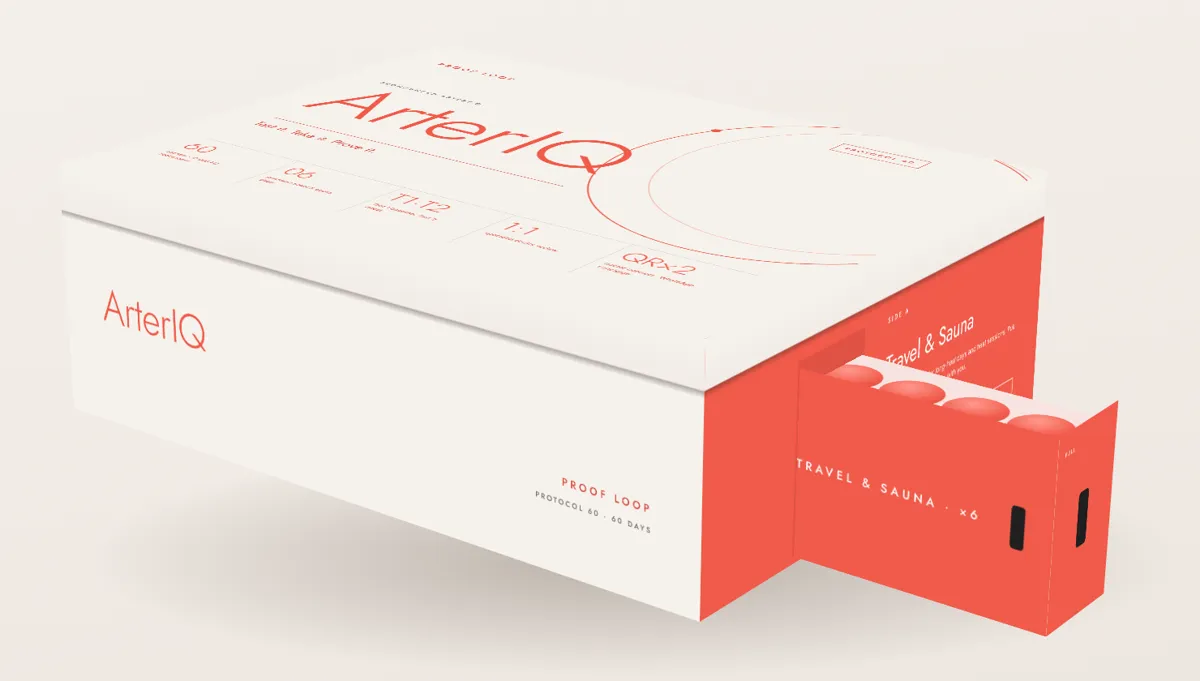
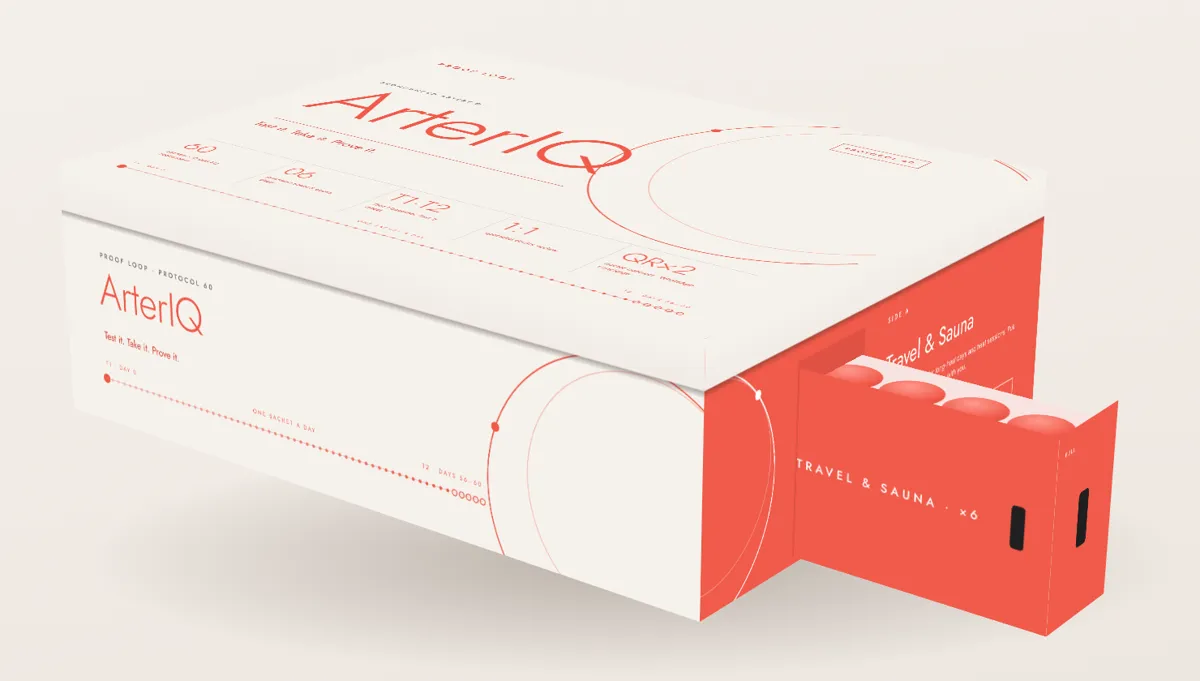
Outer box designs; remove 'Same box outside' tile
Claude-Session: https://claude.ai/code/session_01PkeobWmfrChtD7SqVdFZLv

diff --git a/index.html b/index.html
@@ -697,9 +697,9 @@ a{color:#4A5163}a:hover{color:#E63E3E}
 .p60main{position:absolute;inset:0;width:100%;height:100%;object-fit:cover;object-position:50% 45%}.p60v .flsach{inset:auto;right:5%;bottom:5%;width:44%;height:auto;object-fit:contain;border-radius:6px;box-shadow:0 24px 40px -18px rgba(60,30,20,.45);transform:translateY(10px) rotate(-4deg);z-index:2}.p60v .flsach.on{transform:rotate(-4deg)}
 .p60badge{position:absolute;left:34px;top:34px;z-index:2;padding:9px 14px;border-radius:999px;background:rgba(255,255,255,.9);font-size:13px;color:#4A5163}
 .p60badge b{font-weight:500}
-.p60t{position:relative;display:grid;grid-template-columns:1fr 1fr;gap:12px}
+.p60t{position:relative;display:grid;grid-template-columns:1fr;gap:12px}
 .p60t figure{margin:0;border-radius:18px;overflow:hidden;background:rgba(255,255,255,.92);box-shadow:0 18px 40px -24px rgba(90,40,30,.5)}
-.p60t img{display:block;width:100%;aspect-ratio:16/10;object-fit:cover}
+.p60t img{display:block;width:100%;aspect-ratio:16/9;object-fit:cover;object-position:50% 55%}
 .p60t figcaption{padding:8px 12px 10px;font-size:12px;color:#5A6080}
 .ostep{display:flex;flex-direction:column;gap:2px}
 .osn{display:inline-grid;place-items:center;width:22px;height:22px;margin-right:10px;border-radius:50%;background:#FC5050;color:#fff;font-size:11px;letter-spacing:0;vertical-align:1px}
@@ -940,7 +940,7 @@ a{color:#4A5163}a:hover{color:#E63E3E}
 <div class="offrow">
 <div class="p60 rise">
 <div class="p60v"><div class="p60img"><img class="p60main" src="images/p60-open.webp" alt="Proof Loop Protocol 60 Box, open: coral lid tracker, sachets, kits and shots" loading="lazy" decoding="async"><img class="flimg flsach" data-fli="chocolate" src="images/sachet-chocolate.webp" alt="Chocolate day-numbered sachet" loading="lazy" decoding="async"><img class="flimg flsach on" data-fli="orange" src="images/sachet-orange.webp" alt="Orange day-numbered sachet" loading="lazy" decoding="async"><img class="flimg flsach" data-fli="unflavoured" src="images/sachet-unflavoured.webp" alt="Unflavoured day-numbered sachet" loading="lazy" decoding="async"></div><span class="p60badge">Your sachets · <b data-flname>Orange</b></span>
-<div class="p60t"><figure><img src="images/p60-closed.webp" alt="Closed Protocol 60 Box" loading="lazy" decoding="async"><figcaption>Same box outside</figcaption></figure><figure><img src="images/p60-drawer.webp" alt="Travel and Sauna drawer pulled out" loading="lazy" decoding="async"><figcaption>Travel &amp; Sauna drawer</figcaption></figure></div></div>
+<div class="p60t"><figure><img src="images/p60-drawer.webp" alt="Travel and Sauna drawer pulled out" loading="lazy" decoding="async"><figcaption>Travel &amp; Sauna drawer</figcaption></figure></div></div>
 <div class="obody">
 <p style="margin:0;font-size:14px;color:#6A7080"><span style="display:inline-flex;gap:2px" role="img" aria-label="5 out of 5 stars"><svg width="13" height="13" viewBox="0 0 24 24" fill="#FF9C80" aria-hidden="true"><path d="M12 2.5l2.9 6 6.6.8-4.9 4.6 1.3 6.6L12 17.3l-5.9 3.2 1.3-6.6L2.5 9.3l6.6-.8L12 2.5Z"></path></svg><svg width="13" height="13" viewBox="0 0 24 24" fill="#FF9C80" aria-hidden="true"><path d="M12 2.5l2.9 6 6.6.8-4.9 4.6 1.3 6.6L12 17.3l-5.9 3.2 1.3-6.6L2.5 9.3l6.6-.8L12 2.5Z"></path></svg><svg width="13" height="13" viewBox="0 0 24 24" fill="#FF9C80" aria-hidden="true"><path d="M12 2.5l2.9 6 6.6.8-4.9 4.6 1.3 6.6L12 17.3l-5.9 3.2 1.3-6.6L2.5 9.3l6.6-.8L12 2.5Z"></path></svg><svg width="13" height="13" viewBox="0 0 24 24" fill="#FF9C80" aria-hidden="true"><path d="M12 2.5l2.9 6 6.6.8-4.9 4.6 1.3 6.6L12 17.3l-5.9 3.2 1.3-6.6L2.5 9.3l6.6-.8L12 2.5Z"></path></svg><svg width="13" height="13" viewBox="0 0 24 24" fill="#FF9C80" aria-hidden="true"><path d="M12 2.5l2.9 6 6.6.8-4.9 4.6 1.3 6.6L12 17.3l-5.9 3.2 1.3-6.6L2.5 9.3l6.6-.8L12 2.5Z"></path></svg></span> <span class="cnt" style="--to:30"></span>+ doctors across India recommend Arter.IQ</p>
 <div><p class="mono" style="margin:0 0 8px">Proof Loop Protocol 60 Box</p><h2 class="disp h2" style="font-size:44px;margin:0">One sachet a day, <span class="grad">proven in 60.</span></h2></div>
